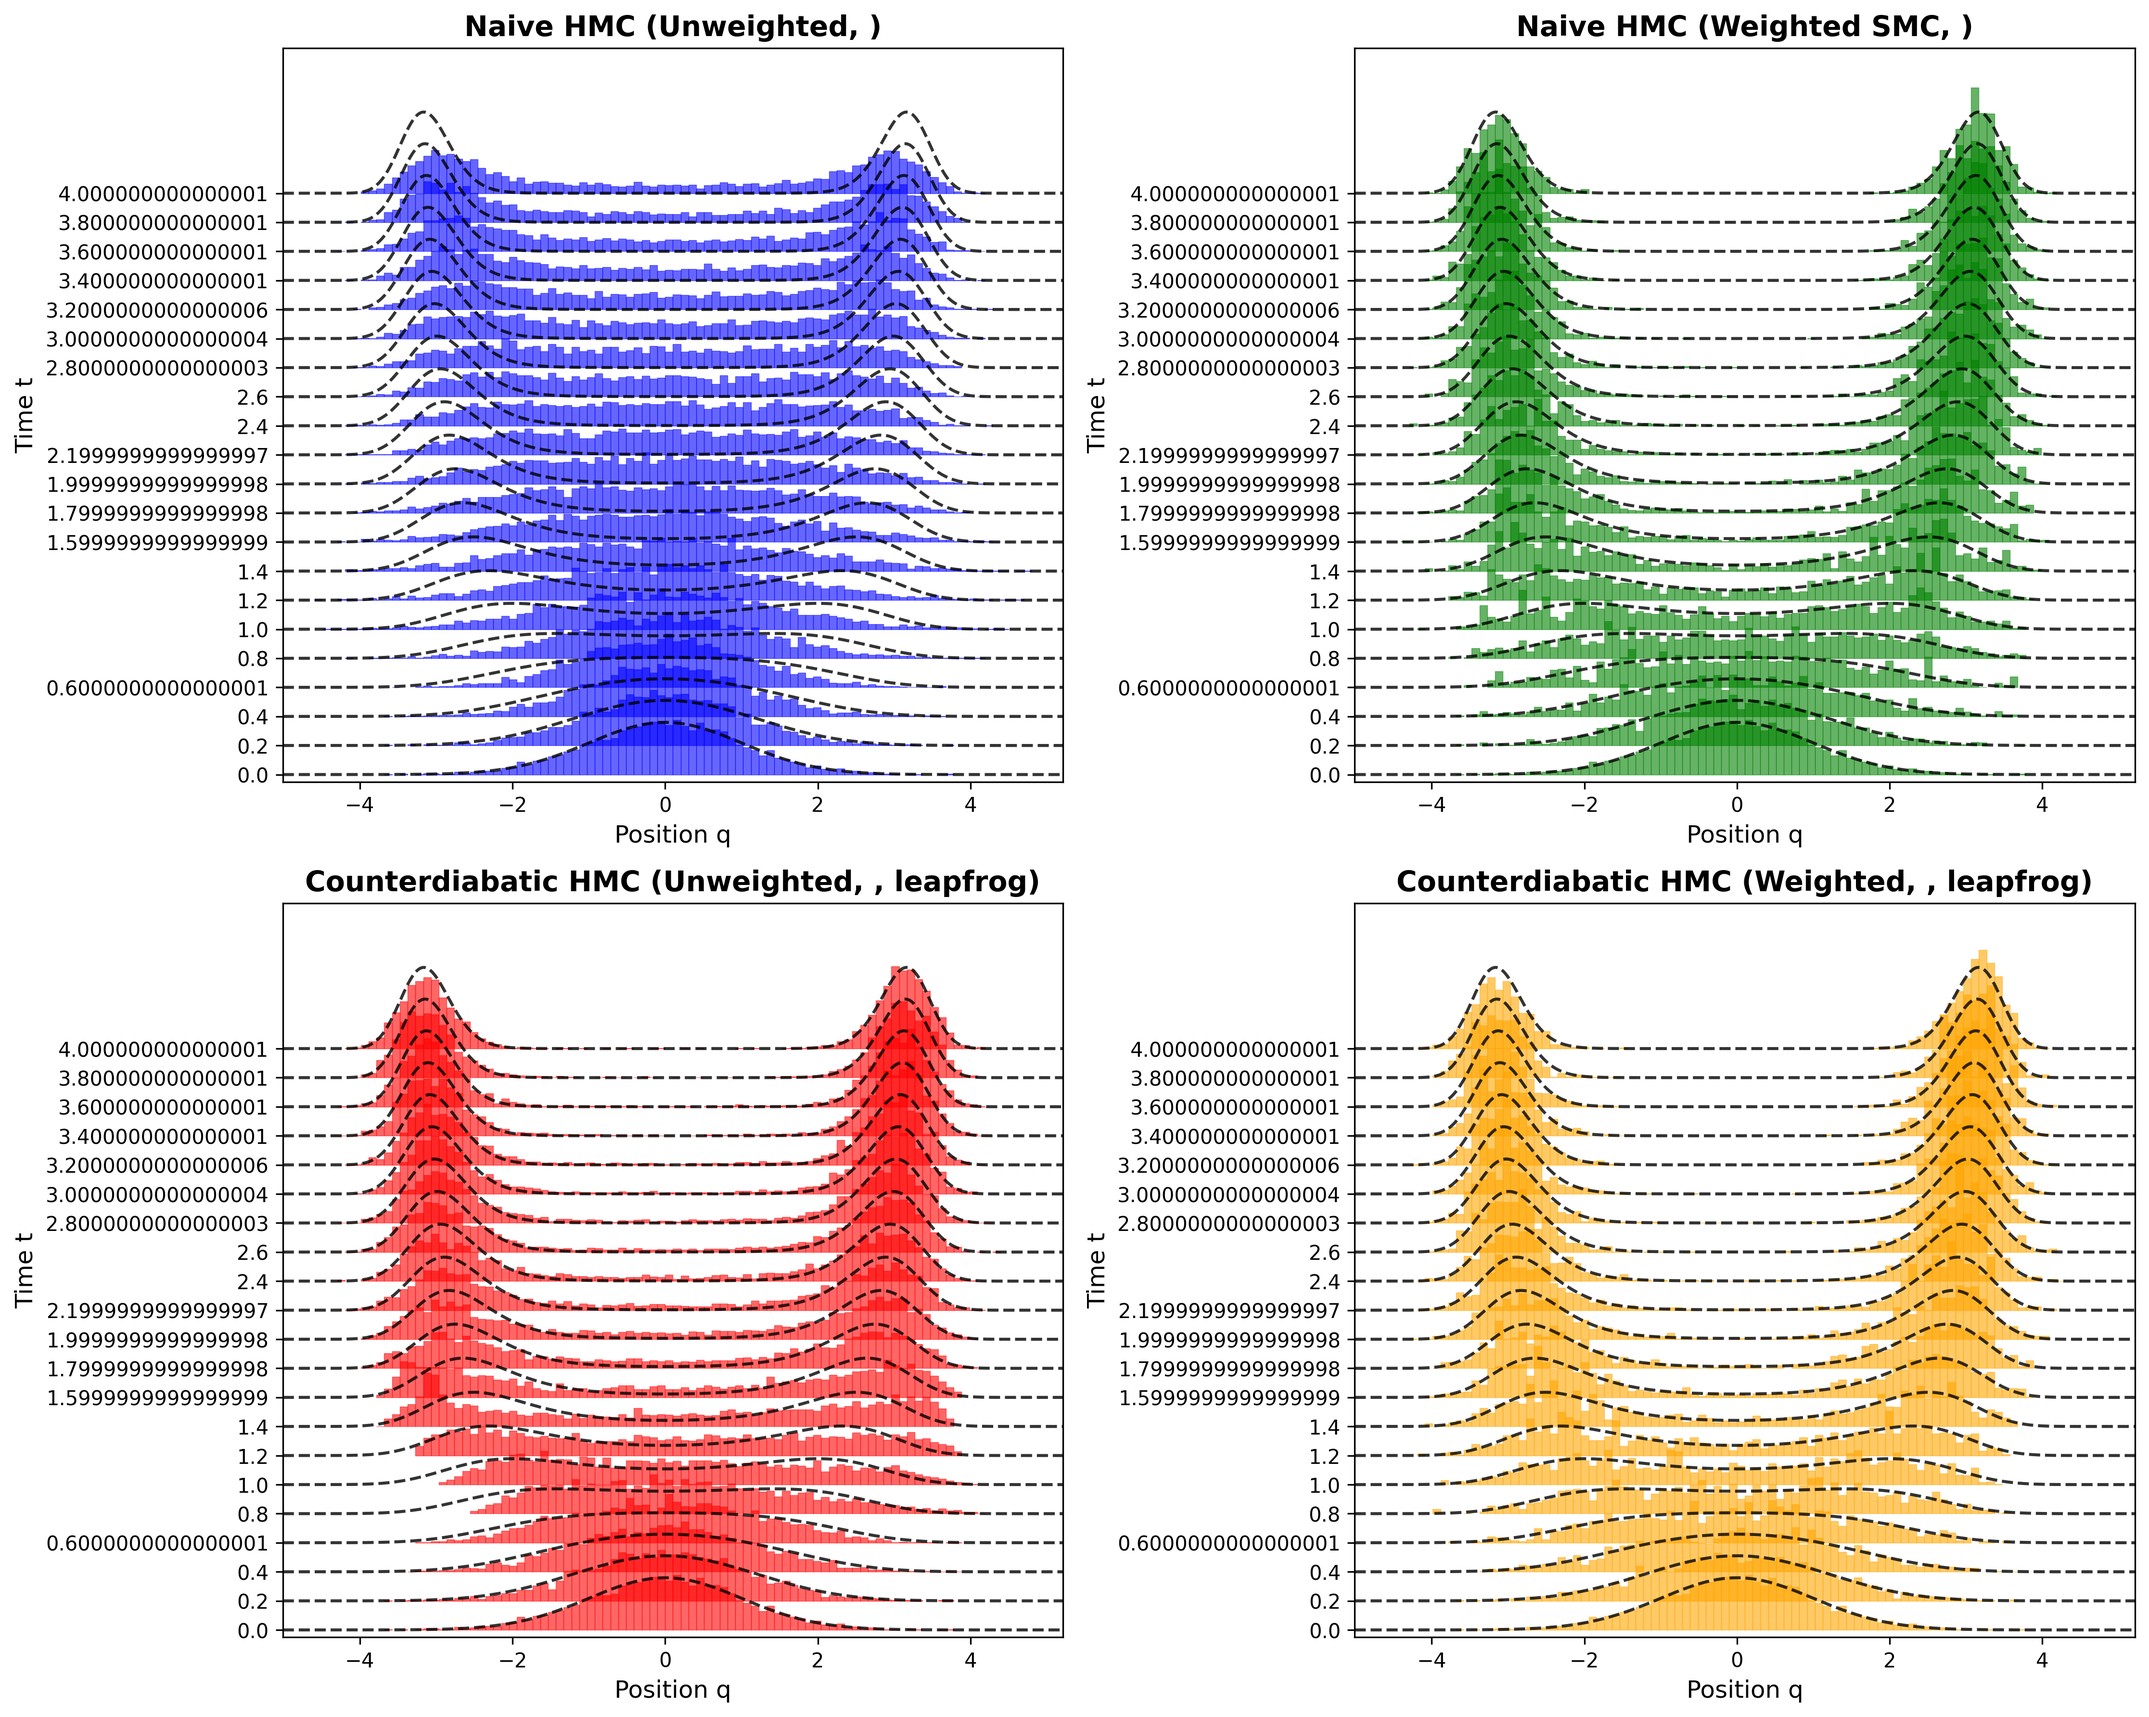
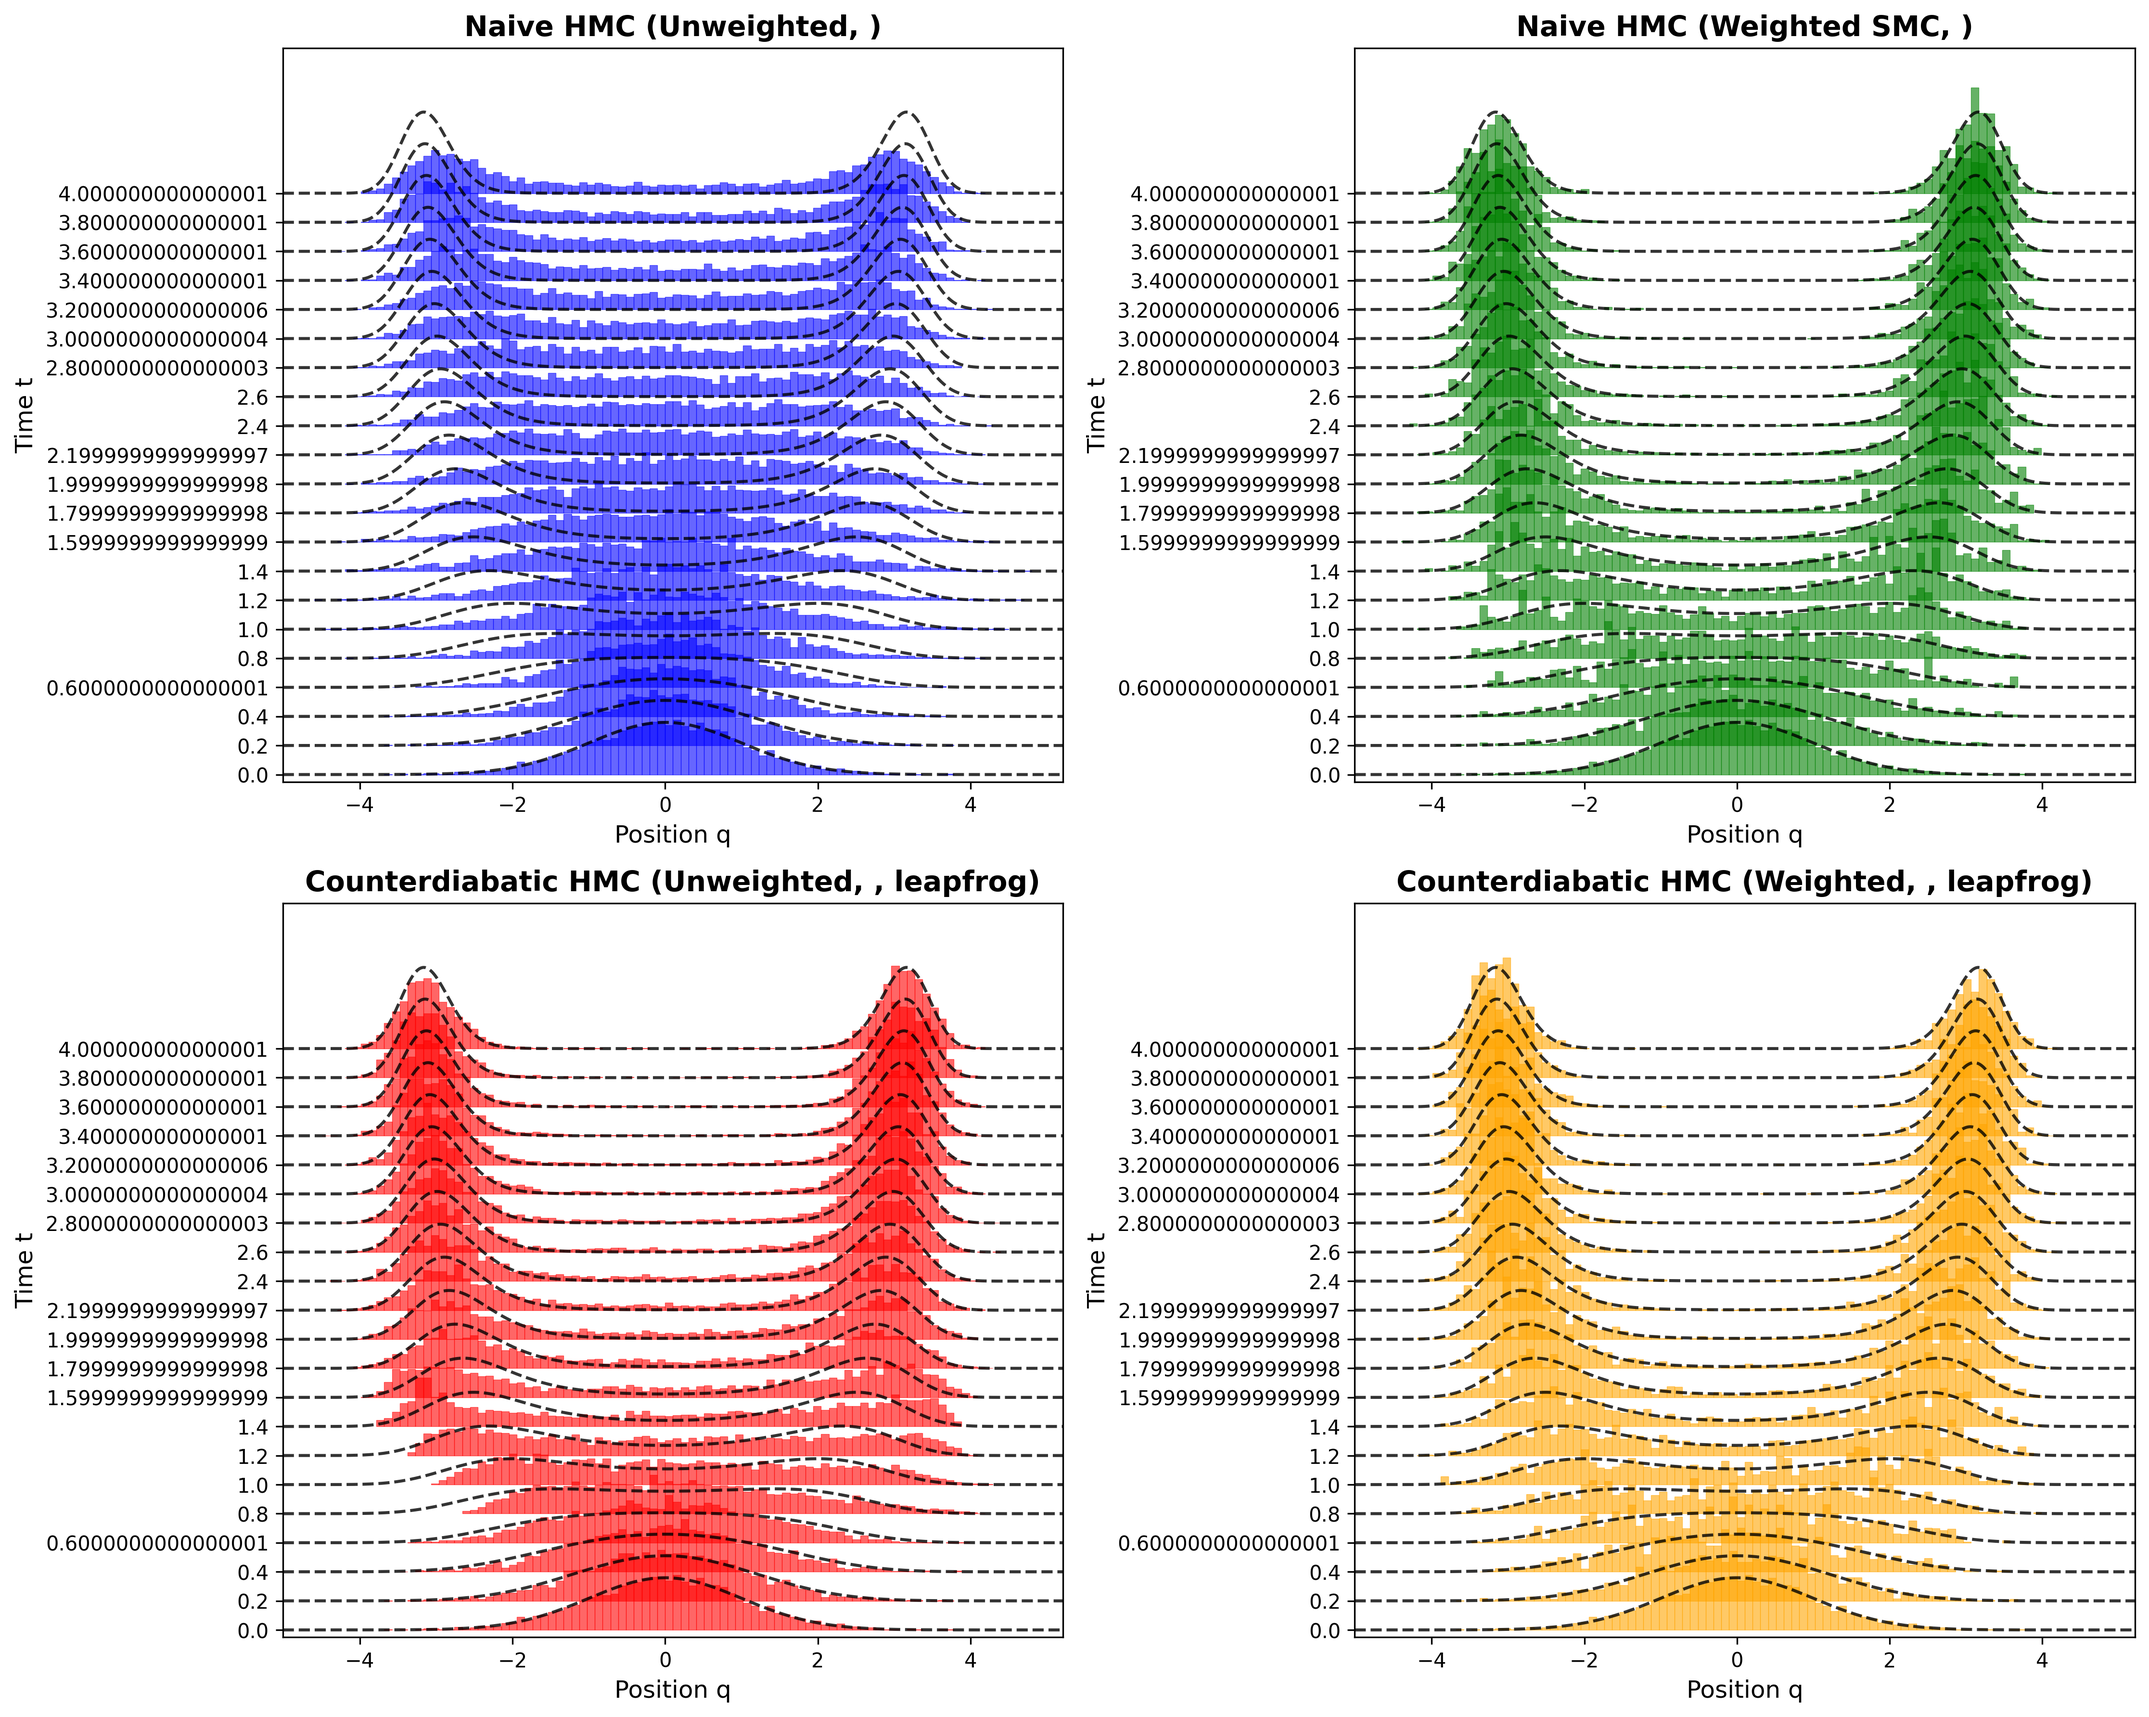
checkpoint

Changed region(s): [[0.6536, 0.56, 0.9648, 0.9022], [0.1867, 0.7777, 0.3112, 0.8711], [0.3735, 0.8089, 0.4046, 0.84]]

diff --git a/src/physics.py b/src/physics.py
@@ -122,10 +122,7 @@ def compute_counterdiabatic_work(q, p, q_new, p_new, lam_k, lam_k1, A_ansatz, ma
     The work is given by: (-∇ · v_t(X_t) + ∇U_t(X_t) · v_t(X_t) + ∂_t U_t(X_t))
     where v is the flow generated by A as the Hamiltonian and U_t = H.
     """
-    # try:
-    # For simplicity, we'll compute this term by term
-    
-    # 1. Compute v = (∂A/∂p, -∂A/∂q) (Hamiltonian vector field generated by A)
+   
     def compute_v(q, p):
         # Compute partial derivatives of A
         dA_dq = jax.grad(A_ansatz, argnums=0)(q, p)
@@ -174,13 +171,6 @@ def compute_counterdiabatic_work(q, p, q_new, p_new, lam_k, lam_k1, A_ansatz, ma
         grad_H_p = jax.grad(H, argnums=1)(q, p)
         
         v_q, v_p = compute_v(q, p)
-        # jax.debug.print("grad_H_dot_v: {x}", x=(
-        #     jax.grad(A_ansatz, argnums=1)(jnp.array([10.0]), jnp.array([10.0])),
-        #     jax.grad(A_ansatz, argnums=0)(jnp.array([10.0]), jnp.array([10.0])),
-
-        #     ))
-        
-        # ∇H · v = ∂H/∂q * v_q + ∂H/∂p * v_p
         return grad_H_q.dot(v_q) + grad_H_p.dot(v_p)
     
   
@@ -188,41 +178,16 @@ def compute_counterdiabatic_work(q, p, q_new, p_new, lam_k, lam_k1, A_ansatz, ma
     delta_H = H(lam_k1)(q_new, p_new) - H(lam_k)(q, p)
     
     # Define the complete work computation for a single particle
-    def compute_work_single(q, p):
-        div_v = compute_div_v(q, p)
-        grad_H_dot_v = compute_grad_H_dot_v(q, p, lam_k)
-        dH_dl = lambda qq, pp: (jax.grad(lambda qqq, ppp, lam: H(lam)(qqq, ppp), argnums=2)(qq, pp, lam_k))
+    # def compute_work_single(q, p):
+    #     div_v = compute_div_v(q, p)
+    #     grad_H_dot_v = compute_grad_H_dot_v(q, p, lam_k)
+    #     dH_dl = lambda qq, pp: (jax.grad(lambda qqq, ppp, lam: H(lam)(qqq, ppp), argnums=2)(qq, pp, lam_k))
+    #     work = grad_H_dot_v + dH_dl(q, p)
 
-        # jax.debug.print("dH_dl: {x}", x=dH_dl(jnp.array([10.0]), jnp.array([10.0])))
-        
-        # Combine terms: (-∇ · v + ∇H · v + ∂_t H)
-        # work = div_v - jnp.linalg.norm(p) + grad_H_dot_v + dH_dt(q,p)*(lam_k1 - lam_k)
-        # work = 0
-        # jax.debug.print("grad_H_dot_v: {x}", x=grad_H_dot_v)
-        # jax.debug.print("dH_dt: {x}", x=dH_dt(q,p)*(lam_k1 - lam_k))
-        # jax.debug.print("terms {x}", x=(grad_H_dot_v, dH_dl(q, p), grad_H_dot_v - dH_dl(q, p)))
-        work = grad_H_dot_v + dH_dl(q, p) #  + dH_dt(q,p)*(lam_k1 - lam_k)
-        # work = dH_dt(q,p)*(lam_k1 - lam_k)
+    #     return -work
 
-        
-        return -work
-
-    v_q, v_p = compute_v(q, p)
-    delt = (q_new - q).dot(v_q) + (p_new - p).dot(v_p)
-    work = delta_H
-    return -work
     
-    # Vectorize over particles
-    work_vals = (compute_work_single)(q, p)
-
-    # print("work_vals", work_vals)
-    
-    return work_vals
-        
-    # except Exception as e:
-    #     # If there's an error, return zeros (no work contribution)
-    #     print(f"⚠  Error computing counterdiabatic work: {e}")
-    #     return jnp.zeros_like(q)
+    return -delta_H
 
 def make_cd_leapfrog_step(make_T, make_V, A_ansatz, lam, lam_next, dot_lam, dot_lam_next, lam_fn=None, dot_lam_fn=None):
     T = make_T(lam)
@@ -239,77 +204,22 @@ def make_cd_leapfrog_step(make_T, make_V, A_ansatz, lam, lam_next, dot_lam, dot_
     dA_dp_scalar = jax.grad(A_ansatz, argnums=1)
     
     def cd_leapfrog(q, p, eps, t=None):
-        # Compute gradients of the gauge potential at initial point
-        dA_dq = dA_dq_scalar(q, p)
-        dA_dp = dA_dp_scalar(q, p)
         
-        # Clip the gradients to prevent large forces
-        dA_dq = jnp.clip(dA_dq, -clip_value, clip_value)
-        dA_dp = jnp.clip(dA_dp, -clip_value, clip_value)
-
         
-
-
-
-        # half update of H
-
         q, p = leapfrog(make_p_update(make_V(lam)), make_x_update(make_T(lam)), eps, q, p)
 
-            # q_half = q_new + 0.5 * eps * (jax.grad(T_next)(p_new))
-        #     p_new = p_new - eps * (jax.grad(V_next)(q_half))
-        #     q_new = q_half + 0.5 * eps * (jax.grad(T_next)(p_new))
-
-        # # q half-step: q_half = q + (eps/2) * (dT/dp + dot_lam * dA/dp)
-        # q_half = q + 0.5 * eps * (jax.grad(T)(p) + dot_lam * dA_dp)
-        q_half = q + 0.5 * eps * (dot_lam * dA_dp)
-        # jax.debug.print("change in q_half: {x}", x=dA_dp)
-        # q_half = q + 0.5 * eps * (jax.grad(T)(p))
-        
-        # # p full-step: p_new = p - eps * (dV/dq + dot_lam * dA/dq) at q_half
-        dA_dq_half = dA_dq_scalar(q_half, p)
-        dA_dq_half = jnp.clip(dA_dq_half, -clip_value, clip_value)
-        # p_new = p - eps * (jax.grad(V)(q_half) + dot_lam * dA_dq_half)
-        p_new = p - eps * (dot_lam * dA_dq_half)
-        # p_new = p - eps * (jax.grad(V_next)(q_half) )
-        
-        # # # q half-step: q_new = q_half + (eps/2) * (dT/dp + dot_lam * dA/dp) at p_new
-        dA_dp_new = dA_dp_scalar(q_half, p_new)
-        dA_dp_new = jnp.clip(dA_dp_new, -clip_value, clip_value)
-        # q_new = q_half + 0.5 * eps * (jax.grad(T)(p_new) + dot_lam * dA_dp_new)
-        q_new = q_half + 0.5 * eps * (dot_lam * dA_dp_new)
-        # # q_new = q_half + 0.5 * eps * (jax.grad(T_next)(p_new) )
+        q_half = q + 0.5 * eps * (dot_lam * jnp.clip(dA_dp_scalar(q, p), -clip_value, clip_value))
+        p_new = p - eps * (dot_lam * jnp.clip(dA_dq_scalar(q_half, p), -clip_value, clip_value))
+        q_new = q_half + 0.5 * eps * (dot_lam * jnp.clip(dA_dp_scalar(q_half, p_new), -clip_value, clip_value))
 
         q_new, p_new = leapfrog(make_p_update(make_V(lam_next)), make_x_update(make_T(lam_next)), eps, q_new, p_new)
         
-        
         log_weight = compute_counterdiabatic_work(q, p, q_new, p_new, lam, lam_next, A_ansatz, make_T, make_V)
 
-        # jax.debug.print("change in q_new: {x}", x=q_new - q)
-        
         return q_new, p_new, log_weight
     return cd_leapfrog 
-        # # Calculate weight if lambda functions are provided
-        # # For counterdiabatic dynamics, weight is computed from the counterdiabatic work
-        # # Weight = exp(-W) where W is the integrated work
-        # lam_t = lam_fn(t)
-        # lam_t_plus_eps = lam_fn(t + eps)
-        # dot_lam_t = dot_lam_fn(t)
-        
-        # # Compute the differential work for counterdiabatic driving
-        # # W = ∫ ∂H/∂λ dλ/dt dt ≈ ∂H/∂λ * dλ/dt * eps
-        
-        # # Calculate ∂H/∂λ = ∂V/∂λ at the midpoint
-        # lam_mid = (lam_t + lam_t_plus_eps) / 2.0
-        # q_mid = (q + q_new) / 2.0
-        
-        # # For the double well potential: V(q) = (1-λ)*0.5*q^2 + λ*(((q-2)^2 - 3)^2)
-        # # So ∂V/∂λ = -0.5*q^2 + (((q-2)^2 - 3)^2)
-        # dV_dlam = -0.5 * jnp.sum(q_mid**2) + jnp.sum(((q_mid - 2)**2 - 3)**2)
-        
-        # Log weight change: -W where W = ∂H/∂λ * dλ/dt * eps
-        # weight = -dV_dlam * dot_lam_t * eps
-
-# =============================================================================
+       
+#=============================================================================
 # IMPLICIT MIDPOINT INTEGRATOR
 # =============================================================================
 
